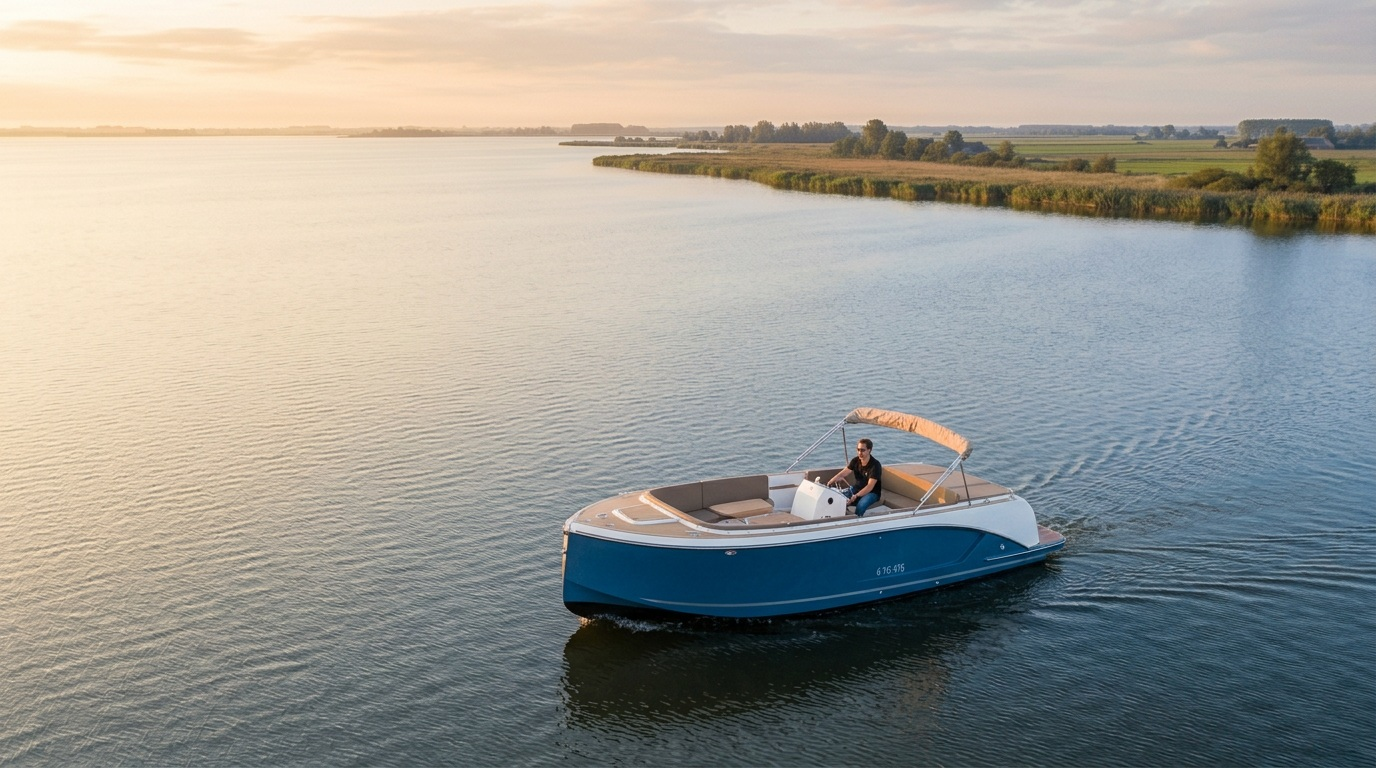
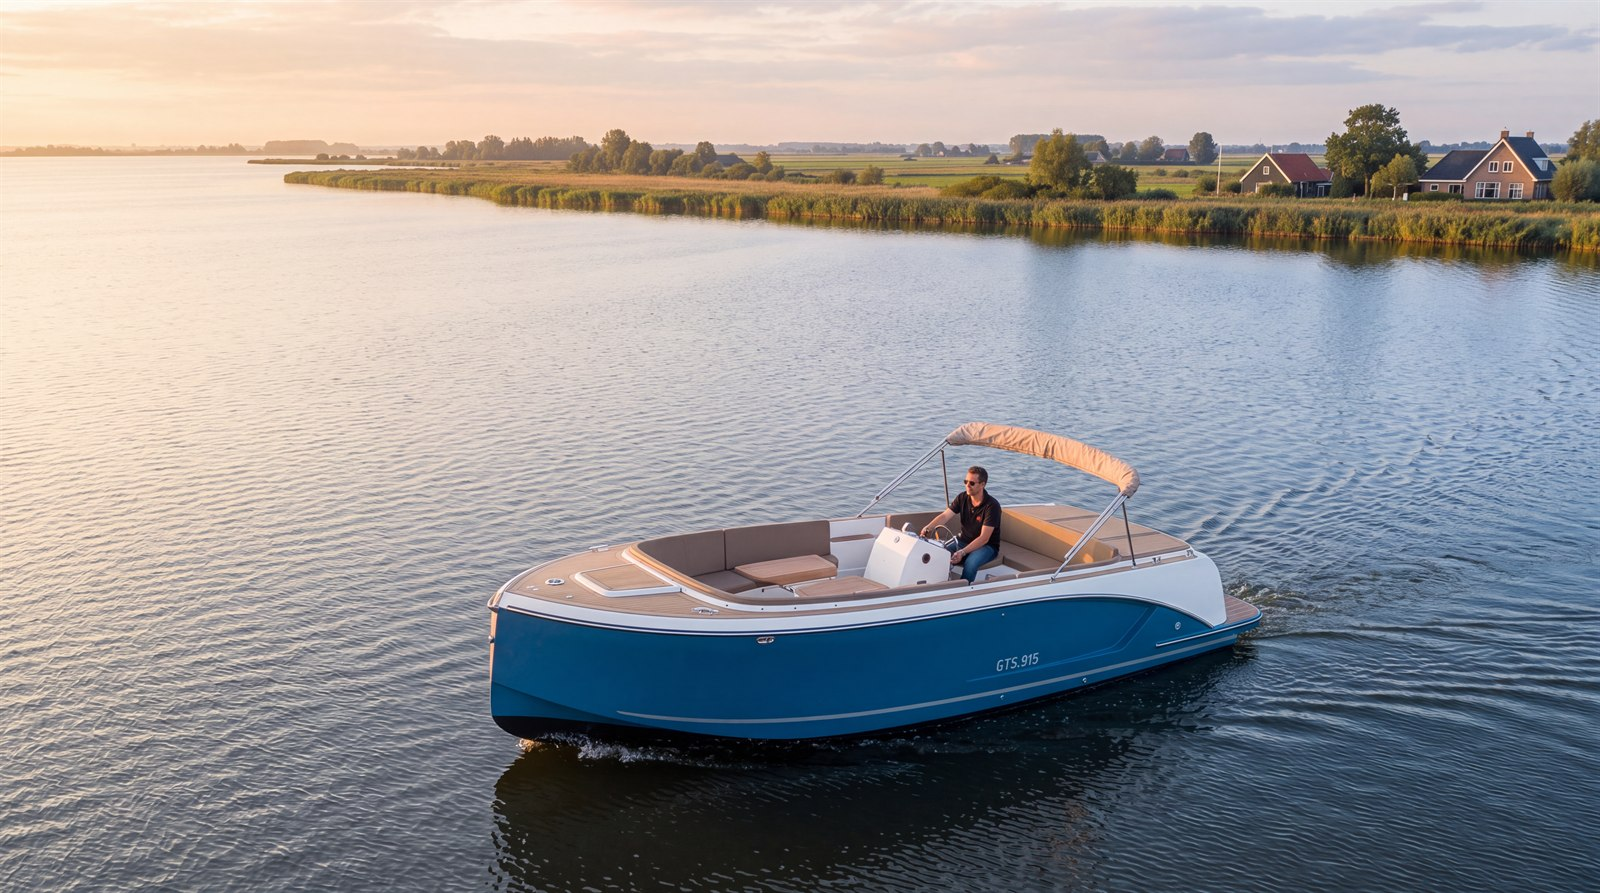
Hero-beeld uit de vergrote Firefly-bron, in drie maten met srcset
Vastgelegd op: PEPIJNMAGNESIUM

diff --git a/index.html b/index.html
@@ -138,7 +138,7 @@ a:hover { color: var(--accent-dark); }
 <main>
 
   <section class="hero" aria-label="Introductie">
-    <img class="hero-media" src="beeld/hero.jpg" alt="" width="1376" height="768" fetchpriority="high">
+    <img class="hero-media" src="beeld/hero.jpg" srcset="beeld/hero-900.jpg 900w, beeld/hero.jpg 1600w, beeld/hero-2560.jpg 2560w" sizes="100vw" alt="" width="1600" height="893" fetchpriority="high">
     <div class="hero-panel">
       <p class="eyebrow">Nieuw · najaar 2026</p>
       <h1 class="wordmark">Deckshare</h1>
